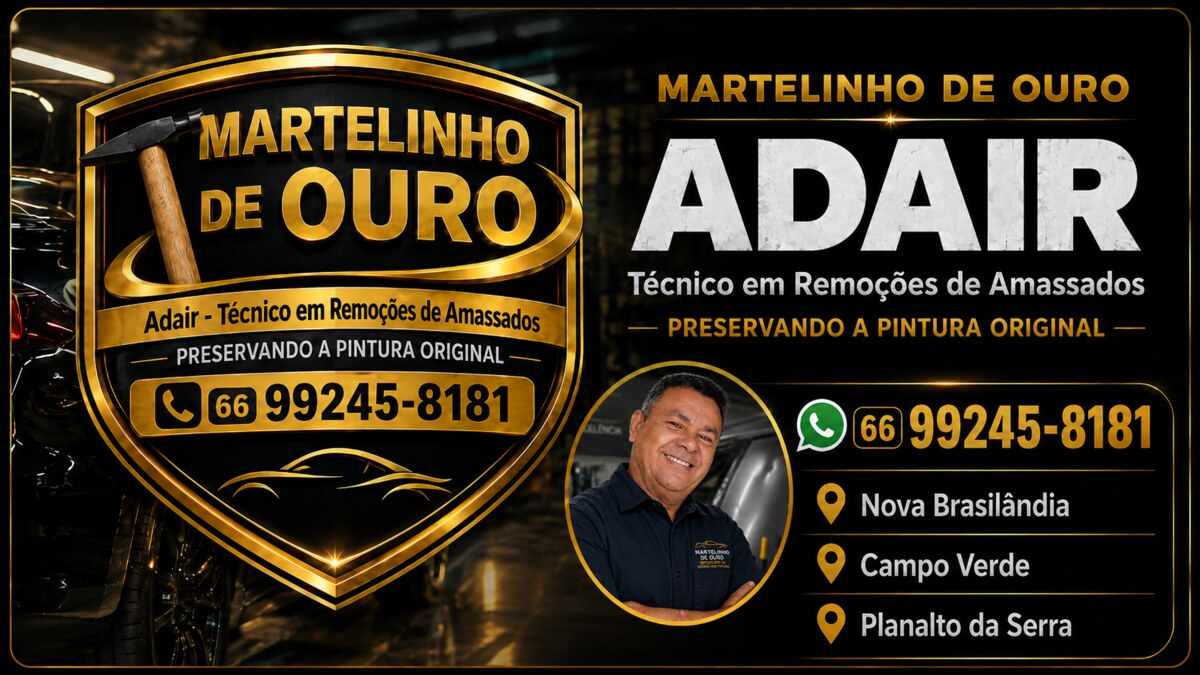
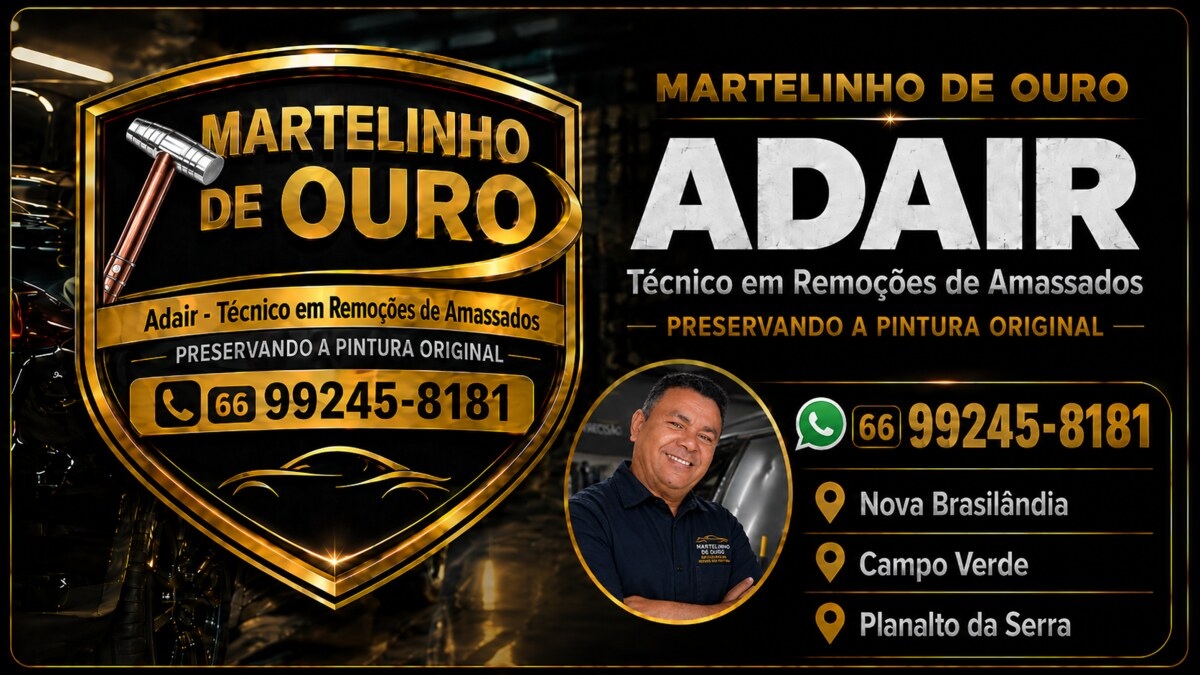
Atualiza marca e corrige comparador mobile

diff --git a/index.html b/index.html
@@ -15,9 +15,9 @@
   <meta property="og:site_name" content="Adair — Martelinho de Ouro">
   <meta property="og:title" content="Adair | Martelinho de Ouro">
   <meta property="og:description" content="Remoção técnica de amassados preservando a pintura original. Atendimento em Planalto da Serra, Campo Verde e Nova Brasilândia - MT.">
-  <meta property="og:image" content="https://raw.githubusercontent.com/matheusnunes2025/martelinho_de_ouro/main/social-preview.jpg?v=20260809-1">
-  <meta property="og:image:url" content="https://raw.githubusercontent.com/matheusnunes2025/martelinho_de_ouro/main/social-preview.jpg?v=20260809-1">
-  <meta property="og:image:secure_url" content="https://raw.githubusercontent.com/matheusnunes2025/martelinho_de_ouro/main/social-preview.jpg?v=20260809-1">
+  <meta property="og:image" content="https://raw.githubusercontent.com/matheusnunes2025/martelinho_de_ouro/main/social-preview.jpg?v=20260809-2">
+  <meta property="og:image:url" content="https://raw.githubusercontent.com/matheusnunes2025/martelinho_de_ouro/main/social-preview.jpg?v=20260809-2">
+  <meta property="og:image:secure_url" content="https://raw.githubusercontent.com/matheusnunes2025/martelinho_de_ouro/main/social-preview.jpg?v=20260809-2">
   <meta property="og:image:type" content="image/jpeg">
   <meta property="og:image:width" content="1200">
   <meta property="og:image:height" content="675">
@@ -27,18 +27,18 @@
   <meta name="twitter:url" content="https://matheusnunes2025.github.io/martelinho_de_ouro/">
   <meta name="twitter:title" content="Adair | Martelinho de Ouro">
   <meta name="twitter:description" content="Remoção de amassados preservando a pintura original. Atendimento em três cidades de Mato Grosso.">
-  <meta name="twitter:image" content="https://raw.githubusercontent.com/matheusnunes2025/martelinho_de_ouro/main/social-preview.jpg?v=20260809-1">
+  <meta name="twitter:image" content="https://raw.githubusercontent.com/matheusnunes2025/martelinho_de_ouro/main/social-preview.jpg?v=20260809-2">
   <meta name="twitter:image:alt" content="Adair Martelinho de Ouro — técnico em remoções de amassados">
 
   <meta itemprop="name" content="Adair | Martelinho de Ouro">
   <meta itemprop="description" content="Atendimento em Planalto da Serra, Campo Verde e Nova Brasilândia - MT.">
-  <meta itemprop="image" content="https://raw.githubusercontent.com/matheusnunes2025/martelinho_de_ouro/main/social-preview.jpg?v=20260809-1">
-  <link rel="image_src" href="https://raw.githubusercontent.com/matheusnunes2025/martelinho_de_ouro/main/social-preview.jpg?v=20260809-1">
-  <link rel="icon" type="image/png" sizes="128x128" href="assets/image-25ec2ea4f4841ee1.png">
-  <link rel="shortcut icon" type="image/png" href="assets/image-25ec2ea4f4841ee1.png">
-  <link rel="apple-touch-icon" sizes="128x128" href="assets/image-25ec2ea4f4841ee1.png">
+  <meta itemprop="image" content="https://raw.githubusercontent.com/matheusnunes2025/martelinho_de_ouro/main/social-preview.jpg?v=20260809-2">
+  <link rel="image_src" href="https://raw.githubusercontent.com/matheusnunes2025/martelinho_de_ouro/main/social-preview.jpg?v=20260809-2">
+  <link rel="icon" type="image/png" sizes="256x256" href="assets/favicon.png">
+  <link rel="shortcut icon" type="image/png" href="assets/favicon.png">
+  <link rel="apple-touch-icon" sizes="256x256" href="assets/favicon.png">
   <title>Adair | Martelinho de Ouro em Planalto da Serra, Campo Verde e Nova Brasilândia</title>
-  <script type="application/ld+json">{"@context":"https://schema.org","@type":"ProfessionalService","name":"Adair — Martelinho de Ouro","description":"Remoção técnica de amassados, preservando a pintura original sempre que possível.","telephone":"+55 66 99245-8181","image":"https://raw.githubusercontent.com/matheusnunes2025/martelinho_de_ouro/main/social-preview.jpg?v=20260809-1","areaServed":[{"@type":"City","name":"Planalto da Serra","containedInPlace":{"@type":"State","name":"Mato Grosso"}},{"@type":"City","name":"Campo Verde","containedInPlace":{"@type":"State","name":"Mato Grosso"}},{"@type":"City","name":"Nova Brasilândia","containedInPlace":{"@type":"State","name":"Mato Grosso"}}],"contactPoint":{"@type":"ContactPoint","telephone":"+55 66 99245-8181","contactType":"customer service","availableLanguage":"Portuguese"}}</script>
+  <script type="application/ld+json">{"@context":"https://schema.org","@type":"ProfessionalService","name":"Adair — Martelinho de Ouro","description":"Remoção técnica de amassados, preservando a pintura original sempre que possível.","telephone":"+55 66 99245-8181","image":"https://raw.githubusercontent.com/matheusnunes2025/martelinho_de_ouro/main/social-preview.jpg?v=20260809-2","areaServed":[{"@type":"City","name":"Planalto da Serra","containedInPlace":{"@type":"State","name":"Mato Grosso"}},{"@type":"City","name":"Campo Verde","containedInPlace":{"@type":"State","name":"Mato Grosso"}},{"@type":"City","name":"Nova Brasilândia","containedInPlace":{"@type":"State","name":"Mato Grosso"}}],"contactPoint":{"@type":"ContactPoint","telephone":"+55 66 99245-8181","contactType":"customer service","availableLanguage":"Portuguese"}}</script>
   <link rel="preconnect" href="https://fonts.googleapis.com">
   <link rel="preconnect" href="https://fonts.gstatic.com" crossorigin>
   <link href="https://fonts.googleapis.com/css2?family=Montserrat:wght@400;500;600;700;800;900&display=swap" rel="stylesheet">
@@ -57,7 +57,7 @@
     section.glass{margin-top:14px;padding:22px 18px}.section-head{display:flex;align-items:end;justify-content:space-between;gap:14px;margin-bottom:15px}.kicker{color:var(--gold);font-size:.61rem;text-transform:uppercase;font-weight:800;letter-spacing:.17em}.section-head h2{font-size:1.25rem;line-height:1.15;margin-top:5px}.section-icon{color:var(--gold);font-size:1.45rem;opacity:.8}.section-copy{font-size:.74rem;color:var(--muted);line-height:1.65}
     .service-list{display:grid;gap:9px}.service{display:grid;grid-template-columns:42px 1fr;gap:11px;padding:13px;border-radius:17px;border:1px solid rgba(255,255,255,.075);background:rgba(255,255,255,.035)}.service-icon{width:42px;height:42px;border-radius:14px;display:grid;place-items:center;color:#111;background:linear-gradient(135deg,var(--yellow),var(--gold));box-shadow:0 8px 20px rgba(212,175,55,.12)}.service h3{font-size:.78rem;margin-bottom:4px}.service p{font-size:.65rem;line-height:1.5;color:var(--muted)}
     .feature{border-color:rgba(212,175,55,.42)!important;text-align:center;background:linear-gradient(160deg,rgba(61,48,10,.68),rgba(9,9,9,.85) 58%)!important}.shield{width:72px;height:72px;margin:0 auto 13px;border-radius:24px;display:grid;place-items:center;background:linear-gradient(145deg,var(--yellow),#9d7411);color:#0b0b0b;font-size:2rem;box-shadow:0 0 0 7px rgba(212,175,55,.1),0 15px 35px rgba(0,0,0,.35)}.feature h2{font-size:1.22rem;line-height:1.2;color:#fff}.feature h2 span{display:block;color:var(--yellow)}.feature>p{font-size:.7rem;color:#d4d4d4;line-height:1.65;margin:11px 0 16px}.benefits{display:grid;grid-template-columns:repeat(3,1fr);gap:7px}.benefit{padding:11px 7px;border-radius:15px;background:rgba(0,0,0,.31);border:1px solid rgba(255,255,255,.09)}.benefit i{color:var(--yellow);font-size:1rem}.benefit strong{font-size:.61rem;display:block;margin:7px 0 4px}.benefit small{font-size:.52rem;line-height:1.45;color:var(--muted);display:block}
-    .comparison{position:relative;height:265px;border-radius:20px;overflow:hidden;background:#111;border:1px solid rgba(255,255,255,.12);touch-action:none;user-select:none}.comparison img{position:absolute;inset:0;width:100%;height:100%;object-fit:cover}.comparison img.after{clip-path:inset(0 0 0 50%)}.compare-line{position:absolute;z-index:3;left:50%;top:0;bottom:0;width:3px;background:#fff;filter:drop-shadow(0 0 6px #000)}.compare-knob{position:absolute;z-index:4;left:50%;top:50%;transform:translate(-50%,-50%);width:46px;height:46px;border-radius:50%;display:grid;place-items:center;background:var(--yellow);color:#111;border:3px solid #fff;box-shadow:0 7px 20px rgba(0,0,0,.45)}.compare-label{position:absolute;z-index:3;top:13px;padding:7px 10px;border-radius:999px;background:rgba(0,0,0,.72);font-size:.6rem;font-weight:900;letter-spacing:.08em}.compare-label.before{left:12px}.compare-label.after{right:12px;color:var(--yellow)}.compare-note{font-size:.62rem;text-align:center;color:var(--muted);margin:10px 4px 14px;line-height:1.5}.gallery{display:grid;grid-template-columns:repeat(3,1fr);gap:7px;margin:12px 0}.gallery img{width:100%;height:102px;object-fit:cover;border-radius:13px;border:1px solid rgba(255,255,255,.1)}
+    .comparison{position:relative;height:265px;border-radius:20px;overflow:hidden;background:#111;border:1px solid rgba(255,255,255,.12);touch-action:pan-y;user-select:none}.comparison img{position:absolute;inset:0;width:100%;height:100%;object-fit:cover;pointer-events:none}.comparison img.after{clip-path:inset(0 0 0 50%)}.compare-line{position:absolute;z-index:3;left:50%;top:0;bottom:0;width:3px;background:#fff;filter:drop-shadow(0 0 6px #000)}.compare-knob{position:absolute;z-index:4;left:50%;top:50%;transform:translate(-50%,-50%);width:46px;height:46px;border-radius:50%;display:grid;place-items:center;background:var(--yellow);color:#111;border:3px solid #fff;box-shadow:0 7px 20px rgba(0,0,0,.45);pointer-events:none}.compare-label{position:absolute;z-index:3;top:13px;padding:7px 10px;border-radius:999px;background:rgba(0,0,0,.72);font-size:.6rem;font-weight:900;letter-spacing:.08em;pointer-events:none}.compare-label.before{left:12px}.compare-label.after{right:12px;color:var(--yellow)}.compare-control{display:grid;grid-template-columns:auto minmax(0,1fr) auto;align-items:center;gap:9px;margin:12px 2px 0;padding:9px 11px;border-radius:15px;background:rgba(0,0,0,.3);border:1px solid rgba(255,255,255,.09)}.compare-control span{font-size:.55rem;font-weight:900;letter-spacing:.06em;color:#eee}.compare-control span:last-child{color:var(--yellow)}.compare-range{width:100%;height:30px;margin:0;accent-color:var(--yellow);cursor:ew-resize;touch-action:none}.compare-range:focus-visible{outline:2px solid var(--yellow);outline-offset:3px;border-radius:8px}.compare-note{font-size:.62rem;text-align:center;color:var(--muted);margin:8px 4px 14px;line-height:1.5}.gallery{display:grid;grid-template-columns:repeat(3,1fr);gap:7px;margin:12px 0}.gallery img{width:100%;height:102px;object-fit:cover;border-radius:13px;border:1px solid rgba(255,255,255,.1)}
     .outline-btn{display:flex;align-items:center;justify-content:center;gap:9px;width:100%;min-height:50px;border-radius:15px;border:1px solid var(--gold);background:rgba(212,175,55,.07);color:var(--yellow);font-weight:800;font-size:.72rem;transition:.3s}.outline-btn.wa{color:#101010;background:var(--wa);border-color:var(--wa)}
     .steps{display:grid;gap:10px}.step{display:grid;grid-template-columns:44px 1fr;gap:11px;align-items:center;padding:12px;border-radius:17px;background:rgba(255,255,255,.035);border:1px solid rgba(255,255,255,.075)}.step-number{width:44px;height:44px;border-radius:14px;background:linear-gradient(145deg,var(--yellow),#8e690f);color:#111;font-weight:900;display:grid;place-items:center}.step h3{font-size:.75rem}.step p{font-size:.61rem;color:var(--muted);line-height:1.45;margin-top:4px}
     .location-card{text-align:center}.pin{font-size:2rem;color:var(--yellow);filter:drop-shadow(0 0 12px rgba(212,175,55,.4))}.location-card h2{font-size:1.12rem;margin:10px 0 6px}.location-card p{font-size:.69rem;color:var(--muted);line-height:1.55;margin-bottom:14px}
@@ -105,7 +105,7 @@
 <body>
   <main class="app">
     <header class="hero glass reveal">
-      <img class="logo" src="assets/image-02bb0c2d54c016b7.webp" alt="Logotipo Martelinho de Ouro Adair" width="471" height="680">
+      <img class="logo" src="assets/logo-adair.webp" alt="Logotipo Martelinho de Ouro Adair" width="540" height="700">
       <div class="identity">
         <div class="portrait"><img src="assets/image-7988ca12e9caf734.jpg" alt="Adair, técnico em remoções de amassados"></div>
         <div><div class="eyebrow">Martelinho de Ouro</div><h1>ADAIR</h1><div class="role">Técnico em Remoções de Amassados</div><div class="slogan">Preservando a pintura original</div></div>
@@ -153,7 +153,12 @@
         <span class="compare-label before">ANTES</span><span class="compare-label after">DEPOIS</span>
         <div class="compare-line" id="compareLine"></div><div class="compare-knob" id="compareKnob"><i class="fa-solid fa-left-right"></i></div>
       </div>
-      <p class="compare-note">Arraste para comparar • Resultado de um trabalho preciso, buscando preservar a pintura original.</p>
+      <div class="compare-control" aria-label="Controle da comparação antes e depois">
+        <span>ANTES</span>
+        <input class="compare-range" id="compareRange" type="range" min="4" max="96" value="50" aria-label="Posição do divisor entre antes e depois">
+        <span>DEPOIS</span>
+      </div>
+      <p class="compare-note">No celular, role sobre a foto normalmente. Para comparar, arraste horizontalmente ou use o controle acima.</p>
       <div class="gallery"><img src="assets/image-4088a22e39d300fd.jpg" alt="Técnica de martelinho de ouro com luminária PDR" loading="lazy"><img src="assets/image-3db6fc6153b2af49.jpg" alt="Inspeção técnica de amassado na lataria" loading="lazy"><img src="assets/image-31ffd4d1b7fae28d.jpg" alt="Resultado de recuperação automotiva" loading="lazy"></div>
       <button class="outline-btn instagram-button" type="button" data-instagram-placeholder><i class="fa-brands fa-instagram"></i> VER MAIS TRABALHOS</button>
     </section>
@@ -188,7 +193,7 @@
     <section class="glass final-cta reveal"><div class="question">AMASSOU O <span>CARRO?</span></div><p>Não deixe para depois. Envie fotos do dano e consulte a possibilidade de recuperação por Martelinho de Ouro.</p><a class="cta" href="https://wa.me/5566992458181?text=Ol%C3%A1%20Adair%21%20Gostaria%20de%20verificar%20um%20amassado%20no%20meu%20ve%C3%ADculo.%20Vou%20enviar%20algumas%20fotos%20para%20avalia%C3%A7%C3%A3o." target="_blank" rel="noopener"><i class="fa-brands fa-whatsapp"></i><span><strong>SOLICITAR ORÇAMENTO</strong><small>WhatsApp: (66) 99245-8181</small></span></a></section>
 
     <footer>
-      <img class="footer-logo" src="assets/image-02bb0c2d54c016b7.webp" alt="Martelinho de Ouro Adair" width="471" height="680" loading="lazy">
+      <img class="footer-logo" src="assets/logo-adair.webp" alt="Martelinho de Ouro Adair" width="540" height="700" loading="lazy">
       <div class="footer-name">Adair — Técnico em Remoções de Amassados</div><div class="footer-sub">Preservando a pintura original</div><div class="section-copy"><i class="fa-solid fa-location-dot" style="color:var(--gold)"></i> Planalto da Serra - MT • Campo Verde - MT • Nova Brasilândia - MT<br><a href="tel:+5566992458181">(66) 99245-8181</a></div>
       <div class="socials"><a href="https://wa.me/5566992458181" target="_blank" rel="noopener" aria-label="WhatsApp"><i class="fa-brands fa-whatsapp"></i></a><button type="button" data-instagram-placeholder aria-label="Instagram"><i class="fa-brands fa-instagram"></i></button><a href="tel:+5566992458181" aria-label="Telefone"><i class="fa-solid fa-phone"></i></a><a href="https://wa.me/5566992458181?text=Ol%C3%A1%20Adair%21%20Gostaria%20de%20confirmar%20o%20atendimento%20na%20minha%20cidade." target="_blank" rel="noopener" aria-label="Consultar área de atendimento"><i class="fa-solid fa-map-location-dot"></i></a></div>
       <div class="verse">“Salmo 23 — O Senhor é meu Pastor, nada me faltará.”</div><div class="copyright">© 2026 Adair — Martelinho de Ouro | Planalto da Serra • Campo Verde • Nova Brasilândia - MT</div>
@@ -201,8 +206,64 @@
       const reveals=document.querySelectorAll('.reveal');
       if(reduced||!('IntersectionObserver' in window)){reveals.forEach(el=>el.classList.add('visible'));}else{const observer=new IntersectionObserver(entries=>entries.forEach(entry=>{if(entry.isIntersecting){entry.target.classList.add('visible');observer.unobserve(entry.target);}}),{threshold:.12,rootMargin:'0px 0px -36px'});reveals.forEach((el,i)=>{el.style.transitionDelay=Math.min(i*45,180)+'ms';observer.observe(el);});}
       document.querySelectorAll('[data-instagram-placeholder]').forEach(button=>button.addEventListener('click',()=>alert('O Instagram do Adair ainda não foi informado. Substitua o link marcado como PLACEHOLDER no código antes de publicar essa função.')));
-      const box=document.getElementById('comparison'),after=document.getElementById('afterImage'),line=document.getElementById('compareLine'),knob=document.getElementById('compareKnob');
-      if(box&&after&&line&&knob){const move=(clientX)=>{const rect=box.getBoundingClientRect();const pct=Math.max(4,Math.min(96,((clientX-rect.left)/rect.width)*100));after.style.clipPath='inset(0 0 0 '+pct+'%)';line.style.left=pct+'%';knob.style.left=pct+'%';};let active=false;box.addEventListener('pointerdown',e=>{active=true;box.setPointerCapture(e.pointerId);move(e.clientX)});box.addEventListener('pointermove',e=>{if(active)move(e.clientX)});box.addEventListener('pointerup',()=>active=false);box.addEventListener('pointercancel',()=>active=false);}
+      const box=document.getElementById('comparison');
+      const after=document.getElementById('afterImage');
+      const line=document.getElementById('compareLine');
+      const knob=document.getElementById('compareKnob');
+      const range=document.getElementById('compareRange');
+      if(box&&after&&line&&knob){
+        const setPosition=(value)=>{
+          const pct=Math.max(4,Math.min(96,Number(value)));
+          after.style.clipPath='inset(0 0 0 '+pct+'%)';
+          line.style.left=pct+'%';
+          knob.style.left=pct+'%';
+          if(range) range.value=String(pct);
+        };
+        const setFromClientX=(clientX)=>{
+          const rect=box.getBoundingClientRect();
+          setPosition(((clientX-rect.left)/rect.width)*100);
+        };
+        let pointerId=null;
+        let startX=0;
+        let startY=0;
+        let gesture='idle';
+        box.addEventListener('pointerdown',(event)=>{
+          pointerId=event.pointerId;
+          startX=event.clientX;
+          startY=event.clientY;
+          gesture=event.pointerType==='mouse'?'compare':'pending';
+          if(gesture==='compare'){
+            box.setPointerCapture(event.pointerId);
+            setFromClientX(event.clientX);
+          }
+        });
+        box.addEventListener('pointermove',(event)=>{
+          if(event.pointerId!==pointerId||gesture==='scroll') return;
+          const dx=event.clientX-startX;
+          const dy=event.clientY-startY;
+          if(gesture==='pending'){
+            if(Math.abs(dy)>Math.abs(dx)+6){gesture='scroll';return;}
+            if(Math.abs(dx)>8&&Math.abs(dx)>Math.abs(dy)){
+              gesture='compare';
+              box.setPointerCapture(event.pointerId);
+            }
+          }
+          if(gesture==='compare'){
+            if(event.cancelable) event.preventDefault();
+            setFromClientX(event.clientX);
+          }
+        });
+        const finishGesture=(event,allowTap)=>{
+          if(event.pointerId!==pointerId) return;
+          if(allowTap&&gesture==='pending') setFromClientX(event.clientX);
+          if(box.hasPointerCapture(event.pointerId)) box.releasePointerCapture(event.pointerId);
+          pointerId=null;
+          gesture='idle';
+        };
+        box.addEventListener('pointerup',(event)=>finishGesture(event,true));
+        box.addEventListener('pointercancel',(event)=>finishGesture(event,false));
+        if(range) range.addEventListener('input',()=>setPosition(range.value));
+      }
     });
   </script>
 </body>
